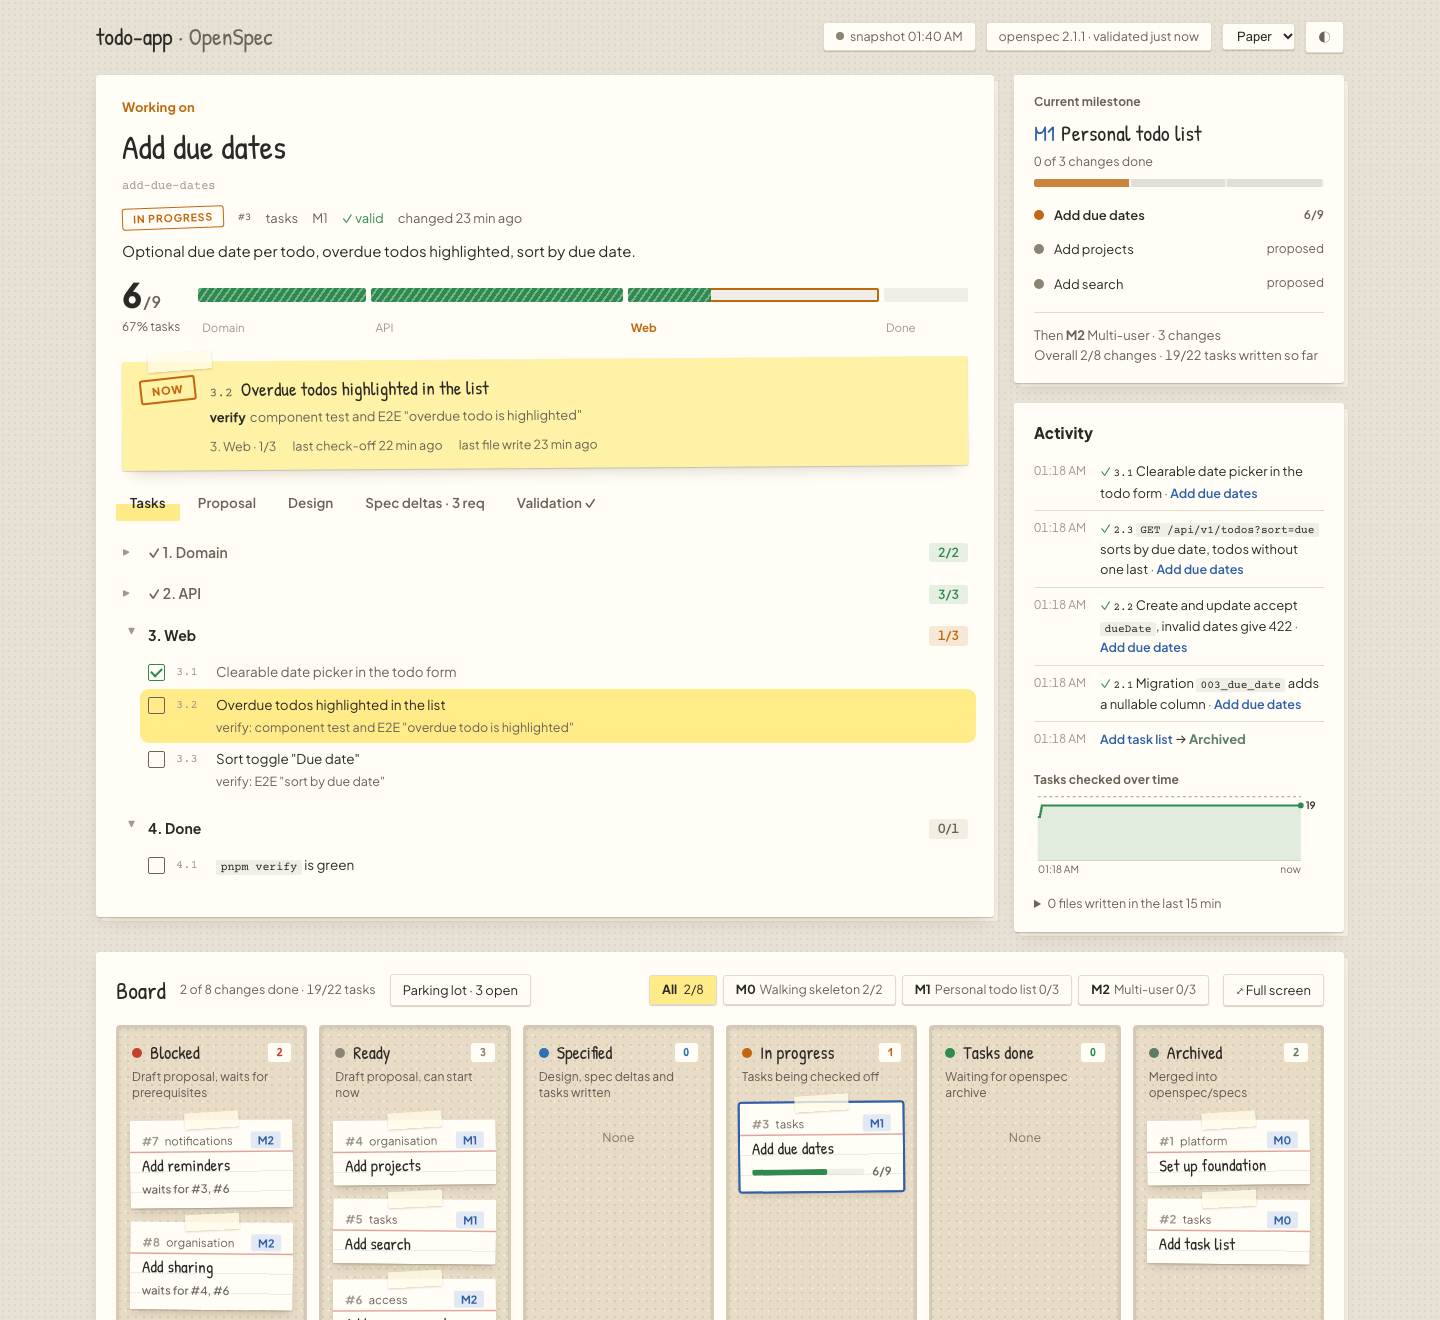
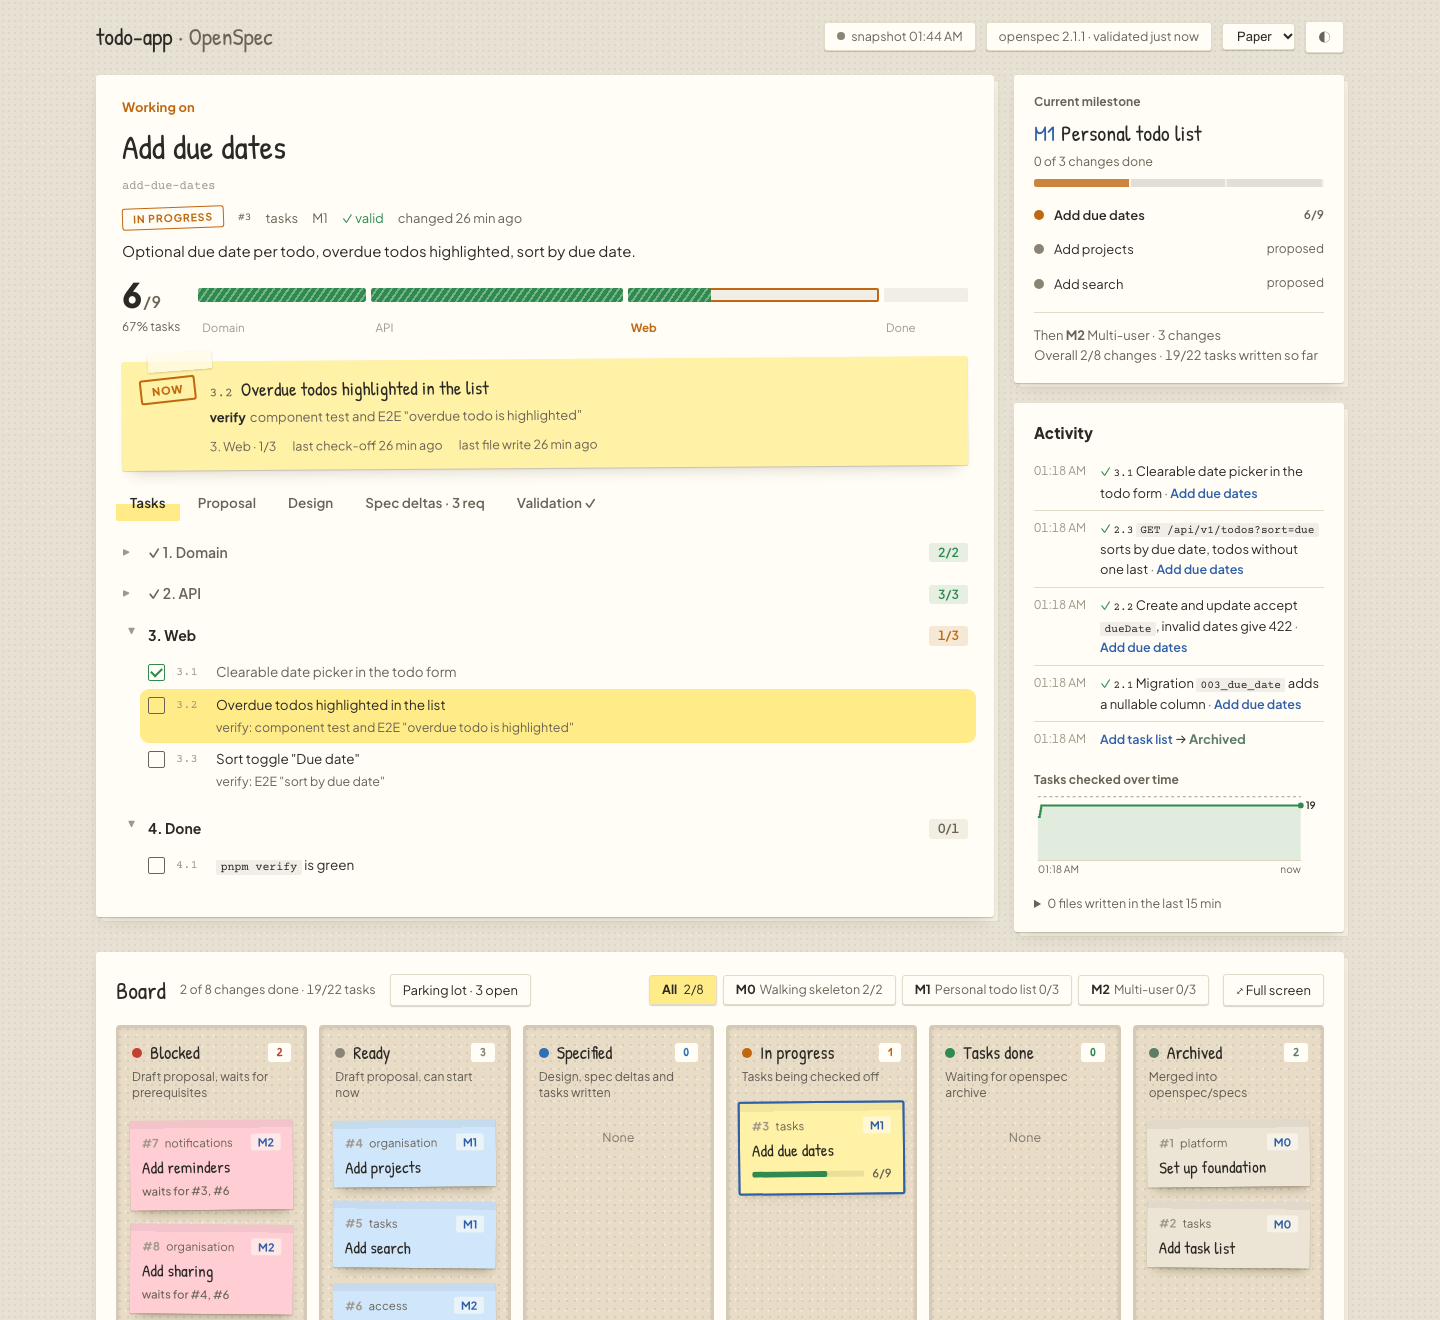
Paper style: post-it cards coloured by column
- Board cards are post-its: pink (blocked), blue (ready), lavender (specified),
  yellow (in progress), green (tasks done), faded beige (archived); muted in dark mode
- Full-screen board gets the paper background instead of showing the page through
- User guide wording and Paper screenshots updated

diff --git a/tools/openspec-dashboard/index.html b/tools/openspec-dashboard/index.html
@@ -379,6 +379,7 @@ body.board-max { overflow: hidden; }
    Paper redefines the base tokens; its dark blocks carry one more selector part so they win over both the base
    dark blocks and its own light block. */
 :root {
+  --pi-blocked: #ffcdd4; --pi-ready: #cfe6fb; --pi-specified: #e2d8fb; --pi-progress: #fff1a6; --pi-complete: #cdeec4; --pi-archived: #ece5d6;
   --p-note: #fff1a6; --p-cork: #e8dcc6; --p-rule: rgba(47, 95, 168, .10); --p-margin: rgba(194, 65, 47, .45);
   --p-tape: rgba(255, 251, 232, .78); --p-highlight: rgba(255, 212, 0, .45); --p-shadow: rgba(60, 45, 20, .20);
   --font-hand: "Patrick Hand", "Segoe Print", "Comic Sans MS", cursive;
@@ -386,11 +387,13 @@ body.board-max { overflow: hidden; }
 }
 @media (prefers-color-scheme: dark) {
   :root:not([data-theme="light"]) {
+    --pi-blocked: #5a3940; --pi-ready: #2f4357; --pi-specified: #41395a; --pi-progress: #4a4220; --pi-complete: #304a33; --pi-archived: #3d3933;
     --p-note: #4a4220; --p-cork: #35322d; --p-rule: rgba(143, 176, 230, .10); --p-margin: rgba(240, 138, 122, .35);
     --p-tape: rgba(240, 230, 200, .16); --p-highlight: rgba(240, 200, 60, .30); --p-shadow: rgba(0, 0, 0, .45);
   }
 }
 :root[data-theme="dark"] {
+  --pi-blocked: #5a3940; --pi-ready: #2f4357; --pi-specified: #41395a; --pi-progress: #4a4220; --pi-complete: #304a33; --pi-archived: #3d3933;
   --p-note: #4a4220; --p-cork: #35322d; --p-rule: rgba(143, 176, 230, .10); --p-margin: rgba(240, 138, 122, .35);
   --p-tape: rgba(240, 230, 200, .16); --p-highlight: rgba(240, 200, 60, .30); --p-shadow: rgba(0, 0, 0, .45);
 }
@@ -419,12 +422,6 @@ body.board-max { overflow: hidden; }
 }
 /* ---------------------------------------------------------------- style: paper
    Index cards on cork, a sticky note for the current task, stamps for status, highlighter for "selected". */
-:root[data-style="paper"] body {
-  background-image:
-    radial-gradient(color-mix(in srgb, var(--ink) 6%, transparent) .8px, transparent 1px),
-    radial-gradient(color-mix(in srgb, var(--surface) 40%, transparent) .8px, transparent 1px);
-  background-size: 6px 6px, 9px 9px; background-position: 0 0, 2px 4px;
-}
 :root[data-style="paper"] header.top h1,
 :root[data-style="paper"] .f-name,
 :root[data-style="paper"] .ms-title,
@@ -444,7 +441,15 @@ body.board-max { overflow: hidden; }
   border-radius: 3px;
   box-shadow: 0 1px 1px var(--p-shadow), 0 8px 16px -8px var(--p-shadow), 5px 5px 0 -1px var(--surface-2), 5px 5px 0 0 var(--line);
 }
-:root[data-style="paper"] .board.max { box-shadow: none; border-radius: 0; background: transparent; }
+:root[data-style="paper"] .board.max { box-shadow: none; border-radius: 0; }
+:root[data-style="paper"] body,
+:root[data-style="paper"] .board.max {
+  background-color: var(--bg);
+  background-image:
+    radial-gradient(color-mix(in srgb, var(--ink) 6%, transparent) .8px, transparent 1px),
+    radial-gradient(color-mix(in srgb, var(--surface) 40%, transparent) .8px, transparent 1px);
+  background-size: 6px 6px, 9px 9px; background-position: 0 0, 2px 4px;
+}
 :root[data-style="paper"] .col {
   background-color: var(--p-cork);
   background-image:
@@ -459,22 +464,24 @@ body.board-max { overflow: hidden; }
 :root[data-style="paper"] .col-empty { color: color-mix(in srgb, var(--ink) 55%, transparent); }
 :root[data-style="paper"] .col-body { padding: 12px 14px 16px; gap: 14px; }
 :root[data-style="paper"] .kc {
-  position: relative; border-radius: 2px; padding-top: 12px;
-  background-color: var(--surface);
-  background-image: linear-gradient(var(--p-margin), var(--p-margin)),
-    repeating-linear-gradient(to bottom, transparent 0 19px, var(--p-rule) 19px 20px);
-  background-size: 100% 1.5px, 100% 100%; background-repeat: no-repeat;
-  background-position: 0 31px, 0 32px;
-  box-shadow: 0 1px 1px var(--p-shadow), 0 6px 10px -4px var(--p-shadow);
+  position: relative; border-radius: 1px; padding-top: 14px;
+  /* post-it: colour per column, a slightly darker adhesive strip at the top */
+  background-color: var(--pi, var(--p-note));
+  background-image: linear-gradient(to bottom, color-mix(in srgb, var(--ink) 6%, transparent) 0 8px, transparent 8px);
+  box-shadow: 0 1px 1px var(--p-shadow), 0 8px 10px -6px var(--p-shadow), 4px 10px 12px -10px var(--p-shadow);
   transform: rotate(-.6deg);
 }
+:root[data-style="paper"] .col-body[data-col="blocked"] { --pi: var(--pi-blocked); }
+:root[data-style="paper"] .col-body[data-col="ready"] { --pi: var(--pi-ready); }
+:root[data-style="paper"] .col-body[data-col="specified"] { --pi: var(--pi-specified); }
+:root[data-style="paper"] .col-body[data-col="in-progress"] { --pi: var(--pi-progress); }
+:root[data-style="paper"] .col-body[data-col="complete"] { --pi: var(--pi-complete); }
+:root[data-style="paper"] .col-body[data-col="archived"] { --pi: var(--pi-archived); }
+:root[data-style="paper"] .kc .kc-top .m { background: color-mix(in srgb, var(--surface) 55%, transparent); }
+:root[data-style="paper"] .kc .bar { background: color-mix(in srgb, var(--ink) 9%, transparent); }
 :root[data-style="paper"] .col-body .kc:nth-child(even) { transform: rotate(.5deg); }
 :root[data-style="paper"] .col-body .kc:nth-child(3n) { transform: rotate(-.2deg); }
 :root[data-style="paper"] .kc:hover { transform: rotate(0) translateY(-2px); box-shadow: 0 2px 2px var(--p-shadow), 0 14px 18px -8px var(--p-shadow); }
-:root[data-style="paper"] .kc::before {
-  content: ""; position: absolute; top: -8px; left: 50%; width: 54px; height: 16px;
-  transform: translateX(-50%) rotate(-3deg); background: var(--p-tape); box-shadow: 0 1px 2px var(--p-shadow);
-}
 :root[data-style="paper"] .kc.focus { box-shadow: 0 0 0 2px var(--accent), 0 6px 10px -4px var(--p-shadow); }
 :root[data-style="paper"] .kc-top .m { border-radius: 2px; }
 :root[data-style="paper"] .now,

diff --git a/docs/user-guide.md b/docs/user-guide.md
@@ -95,7 +95,7 @@ Click a card to open its details next to the board; `Esc` closes them. A link to
 ## Styles
 
 The dashboard has three styles, each in light and dark: **Flat** (the default), **Glass** (frosted panels over a
-soft colour field) and **Paper** (index cards on cork boards, the current task on a sticky note). The style picker
+soft colour field) and **Paper** (post-its on cork boards, one colour per column, the current task on a sticky note). The style picker
 in the header switches the style, ◐ switches light and dark; both choices are remembered per browser.
 In a link, `?style=flat|glass|paper` and `?theme=light|dark` set them, e.g.
 http://127.0.0.1:4590/?style=paper&theme=dark.
